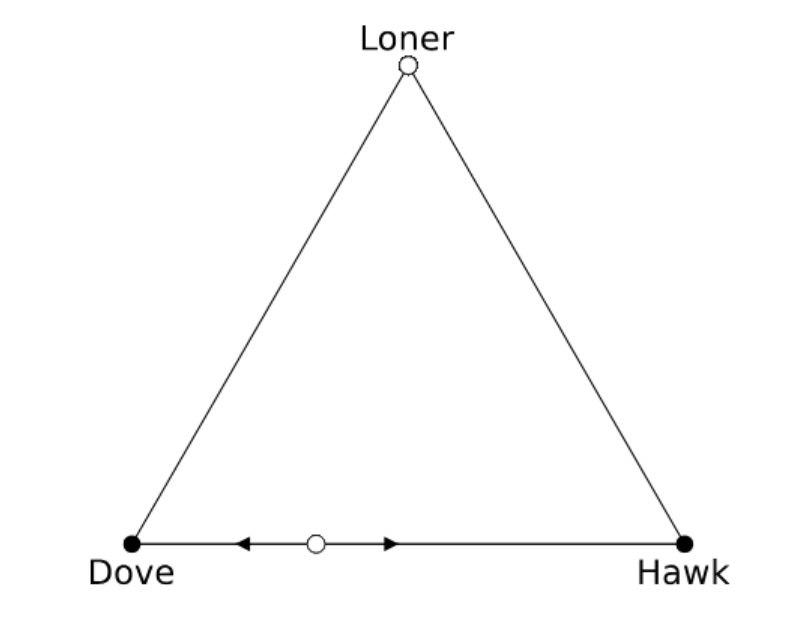
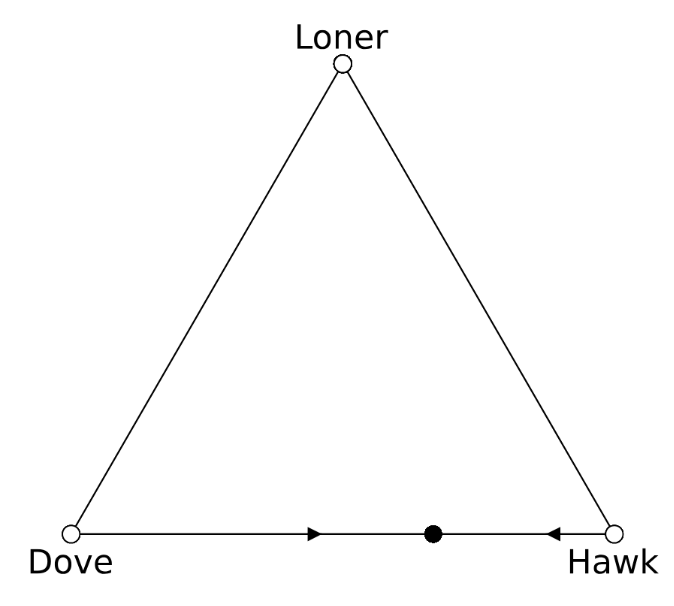
corrected HD game example

diff --git a/README.md b/README.md
@@ -89,12 +89,12 @@ using BaryPlots
 # Payoff functions for Hawk-Dove game
 function hd_payoff_H(x, t, params)
     H, D = x[1], x[2]
-    return 3 * H + 2 * D  # Payoff for Hawk
+    return (-1) * H + 4 * D  # Payoff for Hawk
 end
 
 function hd_payoff_D(x, t, params)
     H, D = x[1], x[2]
-    return 1 * H + 3 * D  # Payoff for Dove
+    return 0 * H + 2 * D  # Payoff for Dove
 end
 
 ```
@@ -203,7 +203,7 @@ function pg_payoff_dummy(x, t, params)
     return 0.0
 end
 
-# Set up the parameterized game with benefit multiplier b = 2.5
+# Set up the parameterized game with benefit multiplier b = 2.0
 params = (b = 2.0, )
 payoff_functions = (pg_payoff_C, pg_payoff_F, pg_payoff_dummy)
 
@@ -236,7 +236,7 @@ You can customize several aspects of the plot, including the colors of the traje
     trajectory_labels: Provide custom labels for the trajectories.
 
     trajectory_colors: Customize the colors of the trajectories.
-    
+
     colored_trajectories: Set this flag to true to have different colors for each trajectory, or keep it false for black trajectories.
 
 ### Equilibria and Stability
